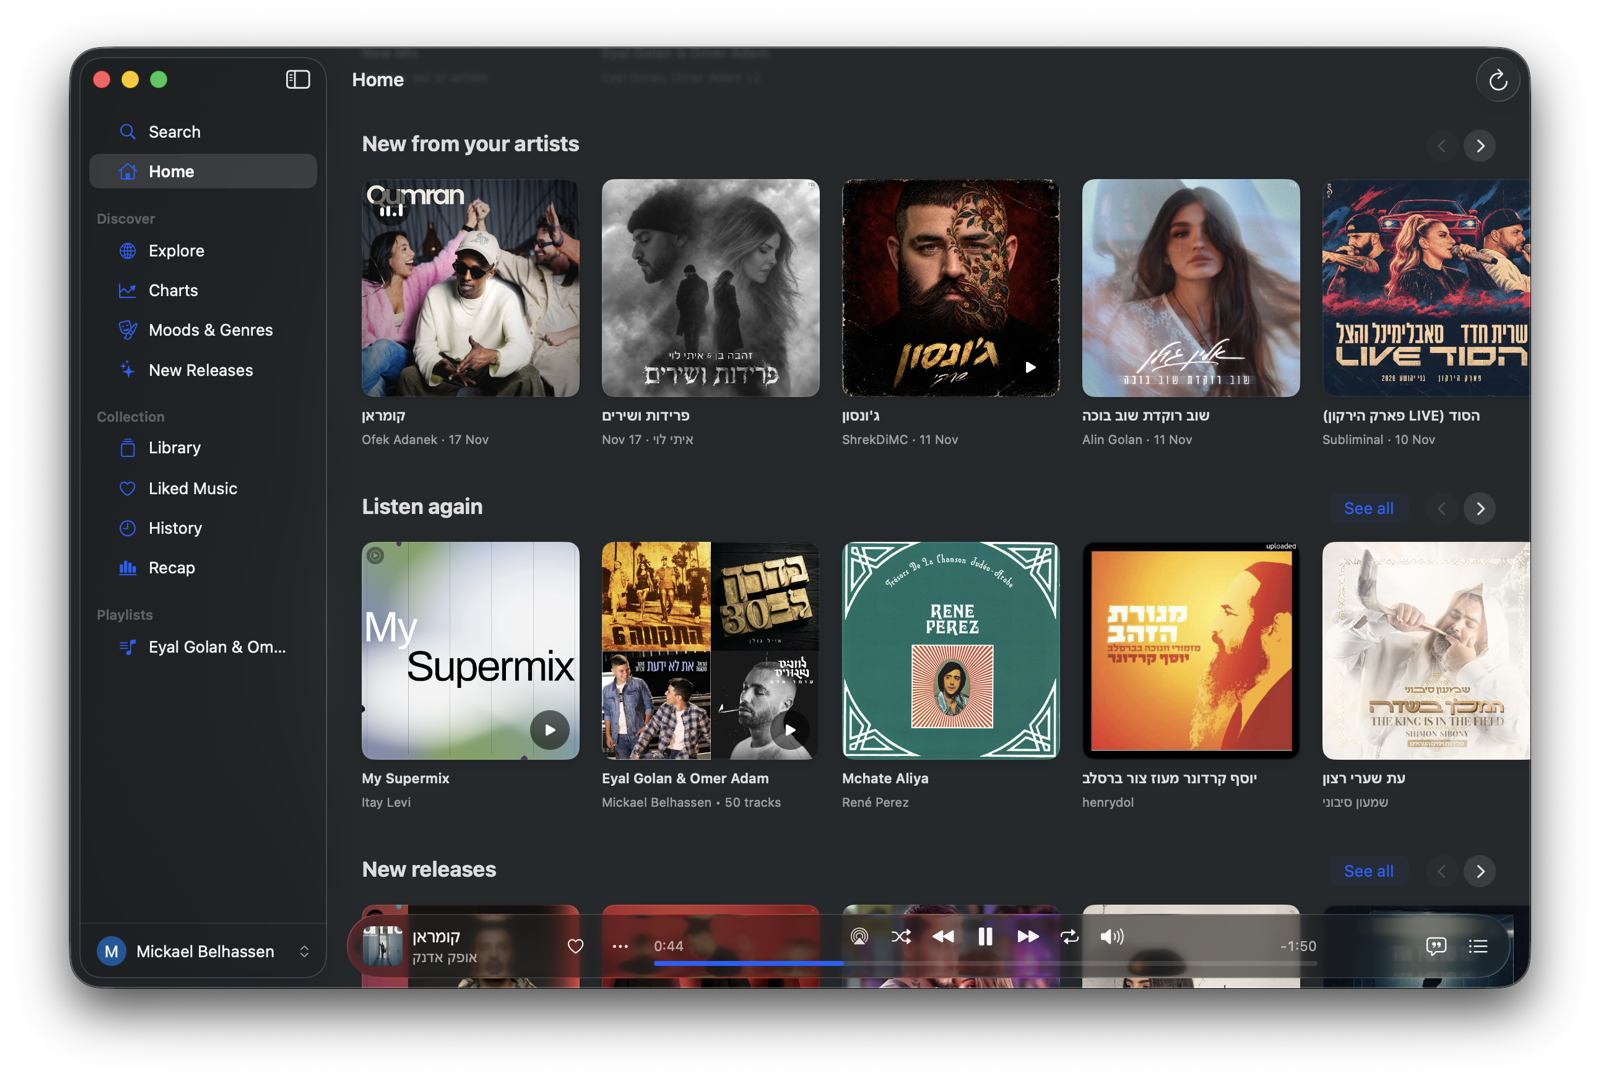
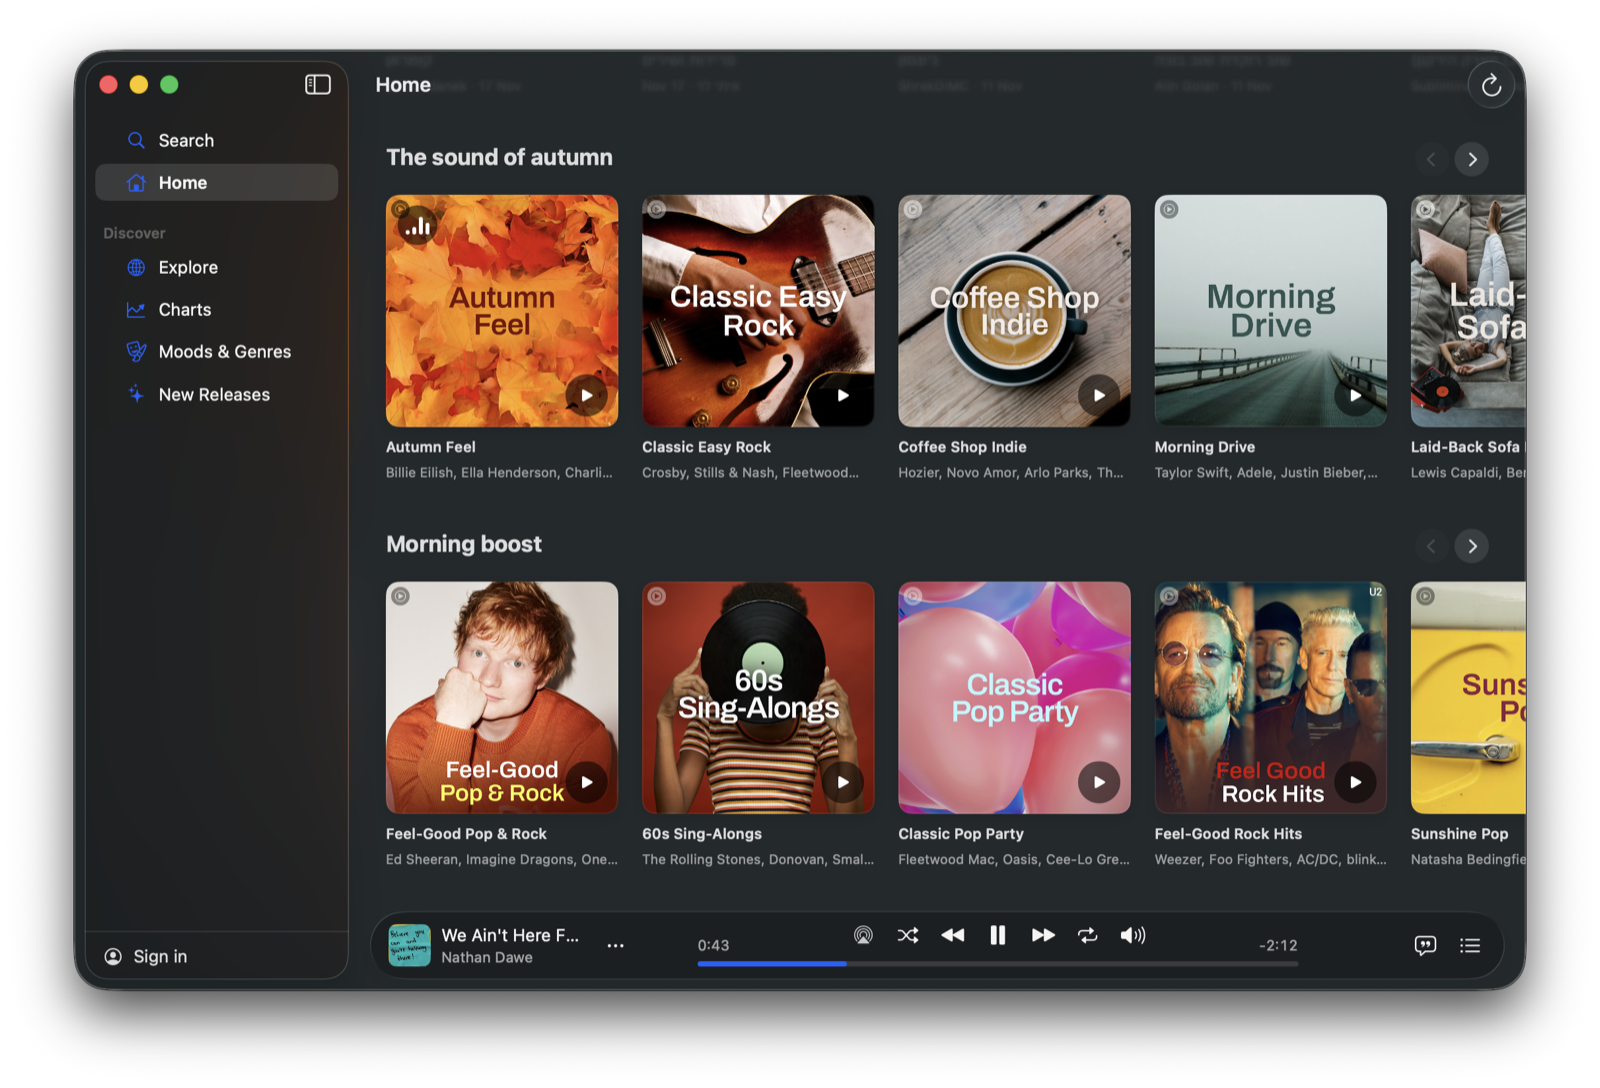
README: new macOS screenshots, trim intro

diff --git a/README.md b/README.md
@@ -17,14 +17,6 @@ playback is delegated to the real YouTube Music web player running in a hidden w
 gives you background playback, lock-screen and AirPods controls, and an Apple Music-like
 interface, with your own YouTube Music account.
 
-Spool was previously called *Kaset for iOS*. It is **inspired by, and adapted from,
-[Kaset for macOS](https://github.com/sozercan/kaset)**
-by [@sozercan](https://github.com/sozercan): the InnerTube client, response parsers, models,
-playback-bridge scripts and the app icon come from there. This project exists because the
-macOS app's player stack could not be shared with iOS as is, so the pieces that matter were
-carried over and the player was rebuilt for iOS. The Mac app now runs on that same shared stack,
-with its own desktop layout.
-
 > **Disclaimer** – Not affiliated with, endorsed by, or sponsored by YouTube or Google. It uses
 > undocumented endpoints that can change at any time. Use it with your own account and at your
 > own risk.
@@ -54,8 +46,8 @@ with its own desktop layout.
     <td align="center"><img src="docs/screenshots/mac-playlist.png" alt="macOS Playlist" width="420"></td>
   </tr>
   <tr>
-    <td align="center"><sub><b>Home</b><br>Sidebar, shelves and player bar</sub></td>
-    <td align="center"><sub><b>Mix</b><br>Playlist page with Play, Shuffle and Regenerate</sub></td>
+    <td align="center"><sub><b>Home</b><br>Sidebar, shelves and player bar (guest mode)</sub></td>
+    <td align="center"><sub><b>Playlist</b><br>Playlist page with Play and Shuffle</sub></td>
   </tr>
 </table>
 
